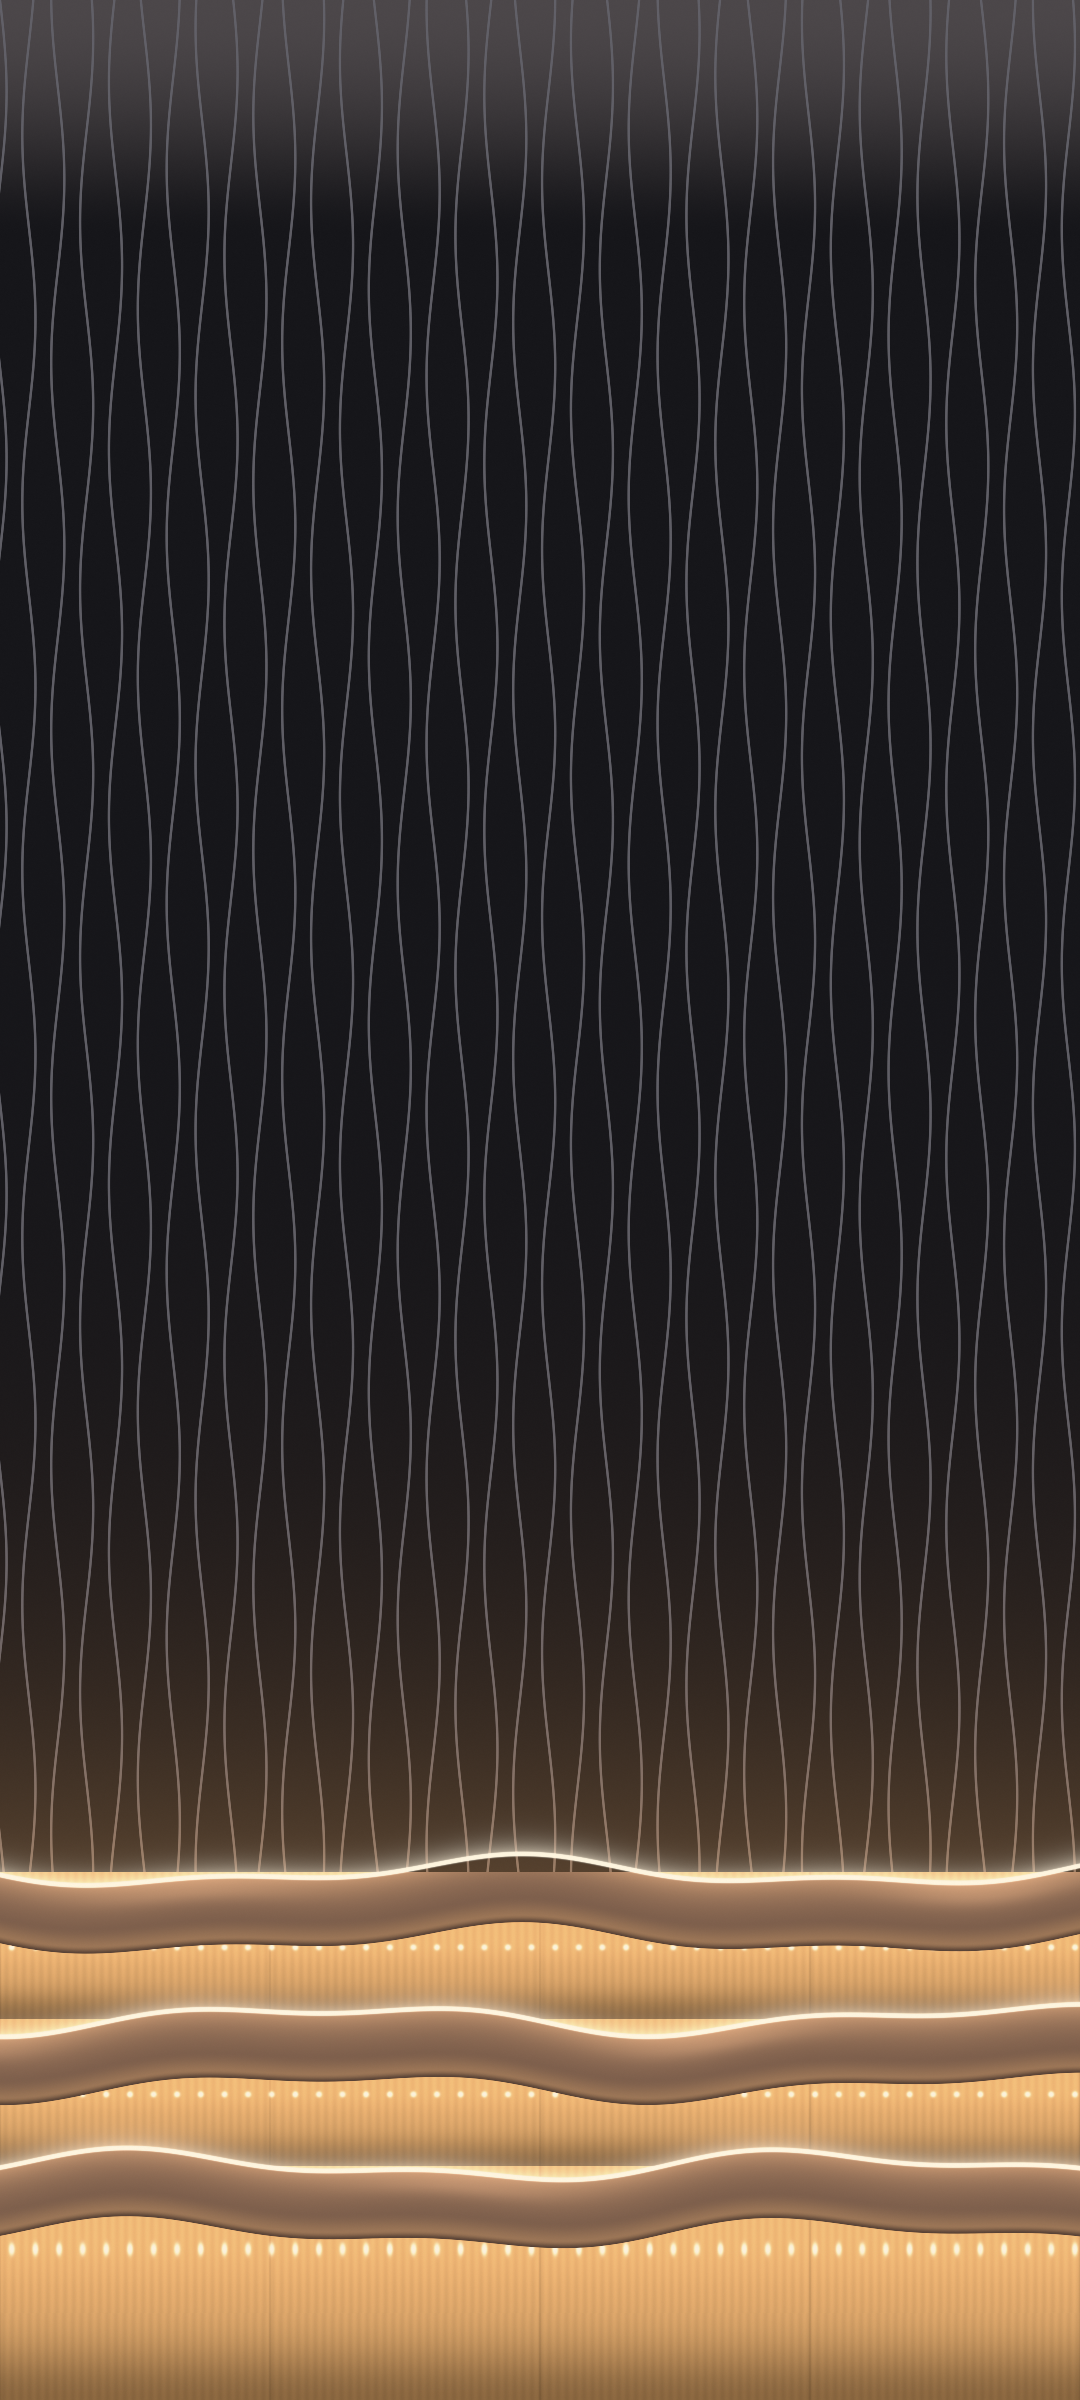
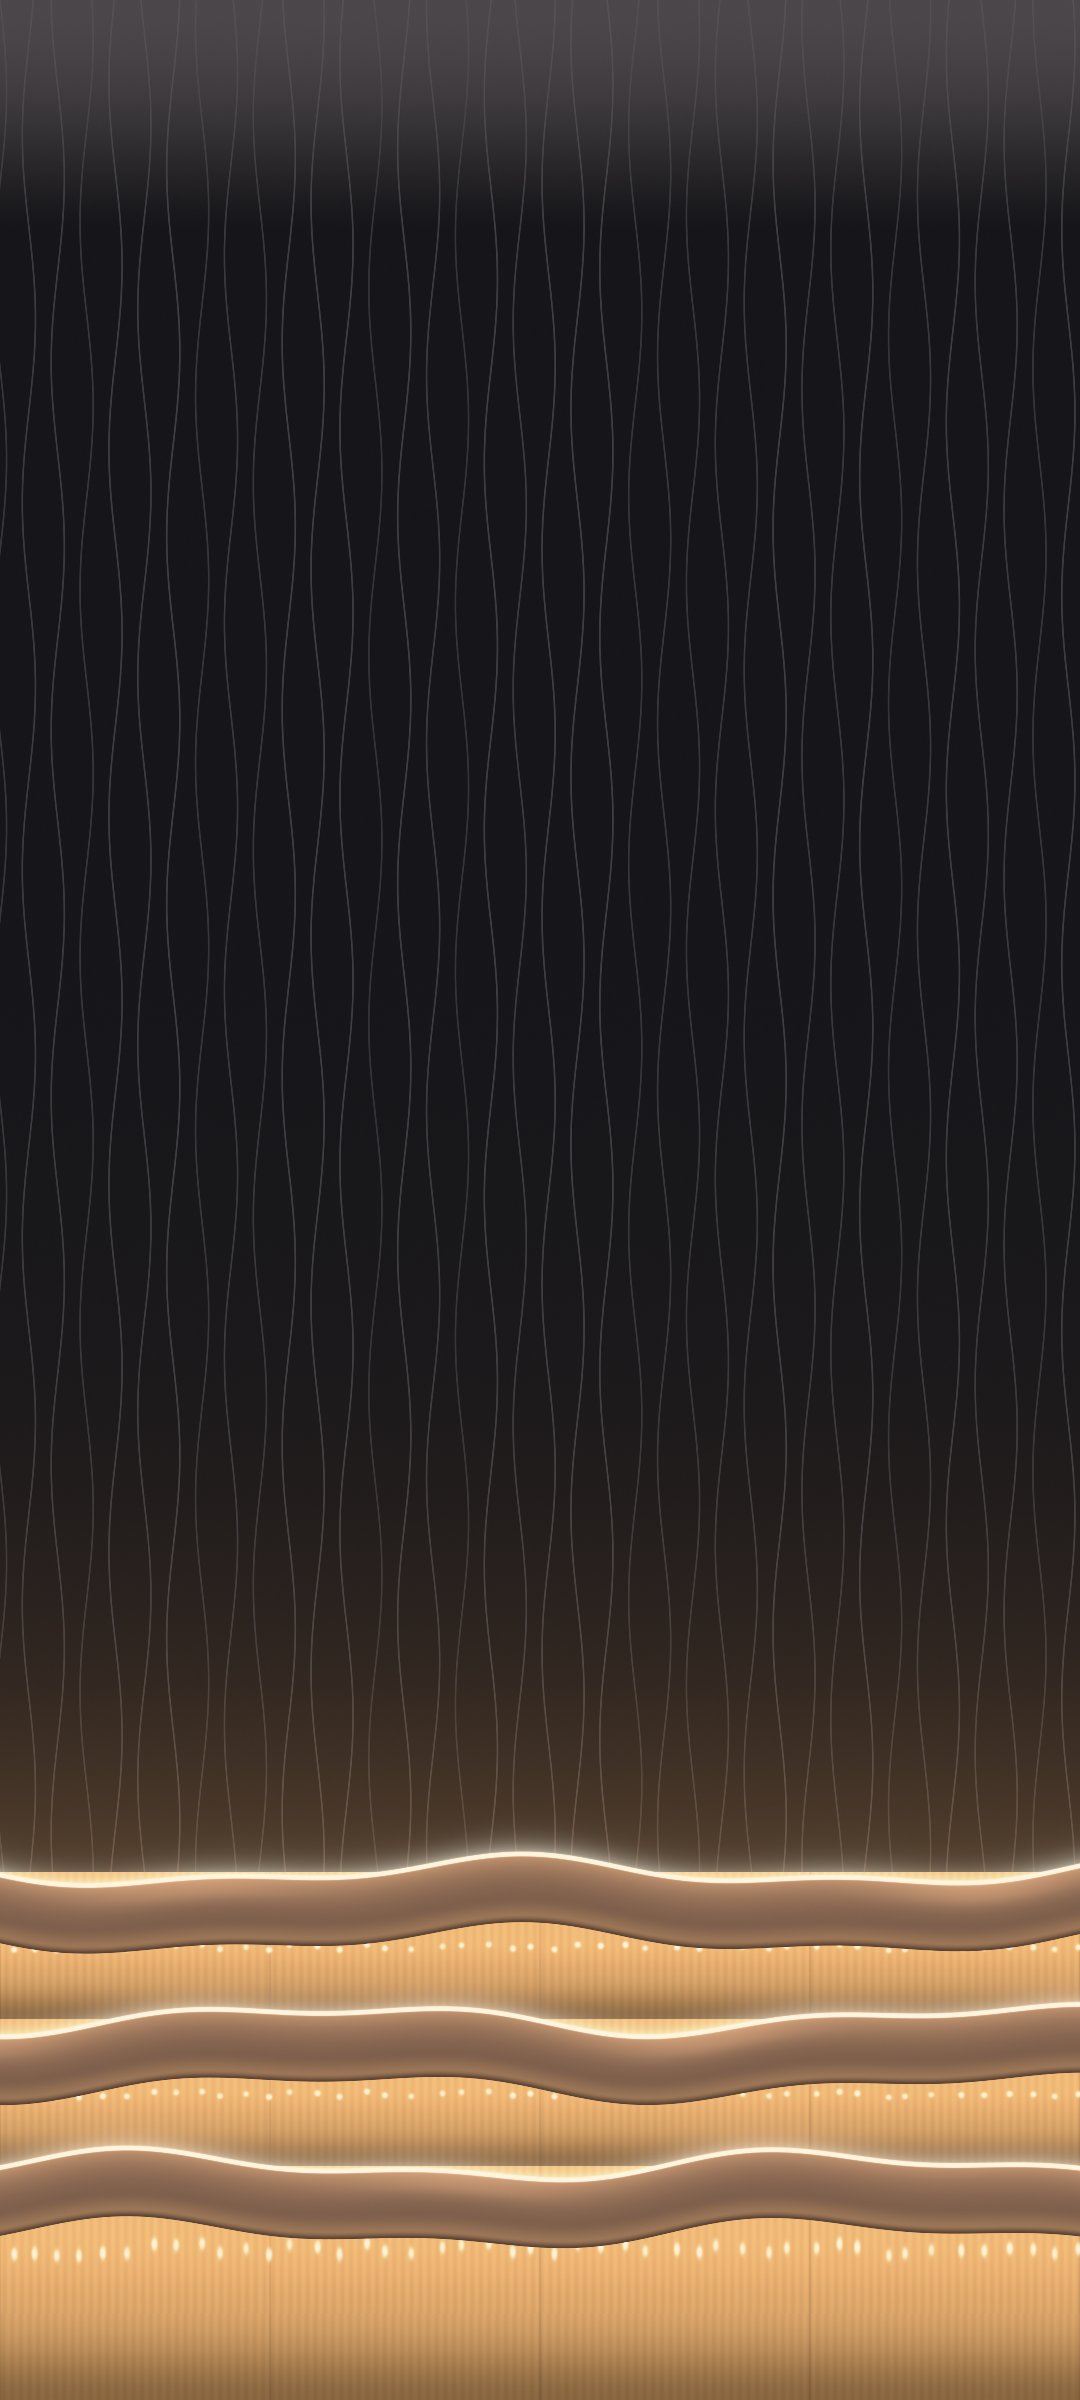
WIP Kinu: 金の帯の光のにじみ・溝の色・カーテンのひだを見本に寄せる
Claude-Session: https://claude.ai/code/session_01EQFTQg9fP95wRPnruyYC8J

diff --git a/app/src/main/java/com/example/businesscard/ui/kinu/KinuBusinessCard.kt b/app/src/main/java/com/example/businesscard/ui/kinu/KinuBusinessCard.kt
@@ -1,0 +1,189 @@
+package com.example.businesscard.ui.kinu
+
+import androidx.compose.foundation.clickable
+import androidx.compose.foundation.interaction.MutableInteractionSource
+import androidx.compose.foundation.layout.Arrangement
+import androidx.compose.foundation.layout.Box
+import androidx.compose.foundation.layout.Column
+import androidx.compose.foundation.layout.aspectRatio
+import androidx.compose.foundation.layout.fillMaxSize
+import androidx.compose.foundation.layout.fillMaxWidth
+import androidx.compose.foundation.layout.height
+import androidx.compose.foundation.layout.padding
+import androidx.compose.foundation.shape.RectangleShape
+import androidx.compose.material3.Text
+import androidx.compose.runtime.Composable
+import androidx.compose.runtime.getValue
+import androidx.compose.runtime.mutableStateOf
+import androidx.compose.runtime.remember
+import androidx.compose.runtime.setValue
+import androidx.compose.ui.Alignment
+import androidx.compose.ui.Modifier
+import androidx.compose.ui.geometry.Offset
+import androidx.compose.ui.geometry.Rect
+import androidx.compose.ui.geometry.Size
+import androidx.compose.ui.graphics.Outline
+import androidx.compose.ui.graphics.Path
+import androidx.compose.ui.graphics.Shape
+import androidx.compose.ui.layout.onSizeChanged
+import androidx.compose.ui.platform.LocalDensity
+import androidx.compose.ui.semantics.Role
+import androidx.compose.ui.text.style.TextOverflow
+import androidx.compose.ui.unit.Density
+import androidx.compose.ui.unit.Dp
+import androidx.compose.ui.unit.IntSize
+import androidx.compose.ui.unit.LayoutDirection
+import androidx.compose.ui.unit.dp
+import com.example.businesscard.domain.model.BusinessCard
+import com.example.businesscard.ui.glass.rememberGlassFeedback
+import kotlin.math.cos
+import kotlin.math.min
+import kotlin.math.sqrt
+
+/**
+ * 名刺の外形。上の角は丸く、下の縁は 1 周期ゆるく波打つ(振幅 [KinuDimens.lipWave])。
+ * 下の角は波の縁から続けて丸める。
+ */
+private class KinuCardShape(private val corner: Dp) : Shape {
+    override fun createOutline(size: Size, layoutDirection: LayoutDirection, density: Density): Outline {
+        val r = with(density) { corner.toPx() }
+        val amp = with(density) { KinuDimens.lipWave.toPx() }
+        val w = size.width
+        val h = size.height
+        val path = Path().apply {
+            moveTo(0f, r)
+            arcTo(Rect(0f, 0f, 2 * r, 2 * r), 180f, 90f, false)
+            lineTo(w - r, 0f)
+            arcTo(Rect(w - 2 * r, 0f, w, 2 * r), 270f, 90f, false)
+            // 右の縁を下り、下の縁を右から左へ戻る(波と下の角)
+            val steps = 64
+            for (i in 0..steps) {
+                val x = w * (1f - i.toFloat() / steps)
+                val wave = h - amp * (0.5f - 0.5f * cos(2f * Math.PI.toFloat() * x / w))
+                val d = min(x, w - x)
+                val y = if (d < r) {
+                    val k = r - d
+                    min(wave, h - r + sqrt((r * r - k * k).coerceAtLeast(0f)))
+                } else {
+                    wave
+                }
+                lineTo(x, y)
+            }
+            close()
+        }
+        return Outline.Generic(path)
+    }
+}
+
+/**
+ * 名刺。琥珀に灯る窓の面に、上下の金の縁(リップ)。下の縁は波打つ。
+ * 押すと縁の光の線が強まる(大きさは変えない)。
+ *
+ * @param onClick 指定すると面全体がボタンになる
+ */
+@Composable
+fun KinuBusinessCard(
+    card: BusinessCard,
+    modifier: Modifier = Modifier,
+    onClick: (() -> Unit)? = null,
+) {
+    val c = KinuTheme.colors
+    val shape = remember { KinuCardShape(CARD_CORNER) }
+    val ignite = LocalKinuIgnite.current
+    val density = LocalDensity.current
+    val interaction = remember { MutableInteractionSource() }
+    val feedback = rememberGlassFeedback()
+    val press = rememberKinuPress(interaction, feedback)
+    var cardSize by remember { mutableStateOf(IntSize.Zero) }
+    val bottomLipPx = with(density) { (KinuDimens.lipHeight + KinuDimens.lipWave).toPx() }
+
+    // 下の縁は card の下端から測るので、指の y を縁の中の位置へ直す
+    val bottomTouch: () -> Offset = {
+        val t = press.touch
+        if (t.x < 0f) t else Offset(t.x, t.y - (cardSize.height - bottomLipPx))
+    }
+
+    Box(
+        modifier = modifier
+            .aspectRatio(CARD_ASPECT_RATIO)
+            .onSizeChanged { cardSize = it }
+            .kinuWindow(shape, glow = { ignite.value }, seed = 0.4f)
+            .then(
+                if (onClick != null) {
+                    Modifier
+                        .kinuTouch(press)
+                        .clickable(
+                            interactionSource = interaction,
+                            indication = null,
+                            role = Role.Button,
+                            onClick = {
+                                feedback.click()
+                                onClick()
+                            },
+                        )
+                } else {
+                    Modifier
+                },
+            ),
+    ) {
+        Box(
+            modifier = Modifier
+                .align(Alignment.TopCenter)
+                .fillMaxWidth()
+                .height(KinuDimens.lipHeight)
+                .kinuRibbon(
+                    RectangleShape,
+                    line = { KinuLight.LINE_GOLD + KinuLight.LINE_PRESS_BOOST * press.value },
+                    touch = { press.touch },
+                    seed = 0.2f,
+                ),
+        )
+        Box(
+            modifier = Modifier
+                .align(Alignment.BottomCenter)
+                .fillMaxWidth()
+                .height(KinuDimens.lipHeight + KinuDimens.lipWave)
+                .kinuRibbon(
+                    RectangleShape,
+                    line = { KinuLight.LINE_GOLD + KinuLight.LINE_PRESS_BOOST * press.value },
+                    touch = bottomTouch,
+                    seed = 0.7f,
+                ),
+        )
+        Column(
+            modifier = Modifier
+                .fillMaxSize()
+                .padding(
+                    start = 24.dp,
+                    top = KinuDimens.lipHeight + 16.dp,
+                    end = 24.dp,
+                    bottom = KinuDimens.lipHeight + KinuDimens.lipWave + 16.dp,
+                ),
+            verticalArrangement = Arrangement.SpaceBetween,
+        ) {
+            Column {
+                if (card.company.isNotEmpty()) {
+                    Text(text = card.company, style = KinuType.cardCompany, color = c.inkMuted, maxLines = 1, overflow = TextOverflow.Ellipsis)
+                }
+                if (card.title.isNotEmpty()) {
+                    Text(text = card.title, style = KinuType.cardDetail, color = c.inkMuted, maxLines = 1, overflow = TextOverflow.Ellipsis)
+                }
+            }
+            Text(text = card.name, style = KinuType.cardName, color = c.ink, maxLines = 1, overflow = TextOverflow.Ellipsis)
+            Column {
+                if (card.phone.isNotEmpty()) {
+                    Text(text = card.phone, style = KinuType.cardDetail, color = c.inkMuted, maxLines = 1)
+                }
+                if (card.email.isNotEmpty()) {
+                    Text(text = card.email, style = KinuType.cardDetail, color = c.inkMuted, maxLines = 1, overflow = TextOverflow.Ellipsis)
+                }
+            }
+        }
+    }
+}
+
+/** 名刺の角の丸み */
+private val CARD_CORNER = 22.dp
+
+/** 日本の名刺の標準サイズ 91mm x 55mm */
+private const val CARD_ASPECT_RATIO = 91f / 55f

diff --git a/app/src/main/java/com/example/businesscard/ui/kinu/KinuCatalog.kt b/app/src/main/java/com/example/businesscard/ui/kinu/KinuCatalog.kt
@@ -1,0 +1,129 @@
+package com.example.businesscard.ui.kinu
+
+import androidx.compose.foundation.layout.Arrangement
+import androidx.compose.foundation.layout.Column
+import androidx.compose.foundation.layout.Row
+import androidx.compose.foundation.layout.fillMaxSize
+import androidx.compose.foundation.layout.fillMaxWidth
+import androidx.compose.foundation.layout.padding
+import androidx.compose.foundation.layout.safeDrawing
+import androidx.compose.foundation.layout.windowInsetsPadding
+import androidx.compose.foundation.layout.WindowInsets
+import androidx.compose.foundation.rememberScrollState
+import androidx.compose.foundation.verticalScroll
+import androidx.compose.material.icons.Icons
+import androidx.compose.material.icons.automirrored.outlined.ArrowBack
+import androidx.compose.material.icons.filled.Check
+import androidx.compose.material.icons.outlined.Edit
+import androidx.compose.material.icons.outlined.Person
+import androidx.compose.runtime.Composable
+import androidx.compose.runtime.getValue
+import androidx.compose.runtime.mutableStateOf
+import androidx.compose.runtime.remember
+import androidx.compose.runtime.setValue
+import androidx.compose.ui.Modifier
+import androidx.compose.ui.tooling.preview.Preview
+import androidx.compose.ui.unit.dp
+import com.example.businesscard.domain.model.BusinessCard
+
+/**
+ * Kinu の全部品を並べた確認用画面。Android Studio のプレビューと、スクリーンショットテストの両方で使う。
+ */
+@Composable
+fun KinuCatalog(modifier: Modifier = Modifier) {
+    val c = KinuTheme.colors
+    var text by remember { mutableStateOf("") }
+    var choice by remember { mutableStateOf(0) }
+    var showDialog by remember { mutableStateOf(false) }
+    var showConfirm by remember { mutableStateOf(false) }
+    val sample = BusinessCard(
+        id = 1L,
+        name = "Sample Name",
+        company = "Sample Co., Ltd.",
+        title = "Position",
+        phone = "03-0000-0000",
+        email = "sample@example.com",
+    )
+
+    KinuBackground(modifier) {
+        Column(
+            modifier = Modifier
+                .fillMaxSize()
+                .windowInsetsPadding(WindowInsets.safeDrawing)
+                .verticalScroll(rememberScrollState())
+                .padding(16.dp),
+            verticalArrangement = Arrangement.spacedBy(18.dp),
+        ) {
+            KinuTopBar(title = "Catalog", onBack = {})
+
+            Row(
+                modifier = Modifier.fillMaxWidth(),
+                horizontalArrangement = Arrangement.spacedBy(12.dp),
+            ) {
+                KinuButton(text = "Gold", onClick = {}, modifier = Modifier.weight(1f))
+                KinuButton(text = "Night", onClick = {}, tone = KinuTone.Night, modifier = Modifier.weight(1f))
+            }
+            KinuButton(text = "Loading", onClick = {})
+            KinuButton(text = "Leading icon", onClick = {}, leadingIcon = Icons.Filled.Check)
+            KinuButton(text = "Disabled", onClick = {}, enabled = false)
+            KinuButton(text = "Danger", onClick = {}, tone = KinuTone.Night, contentColor = c.danger)
+
+            Row(horizontalArrangement = Arrangement.spacedBy(12.dp)) {
+                KinuIconButton(onClick = {}, icon = Icons.AutoMirrored.Outlined.ArrowBack, contentDescription = "Back")
+                KinuIconButton(
+                    onClick = {},
+                    icon = Icons.Outlined.Edit,
+                    contentDescription = "Edit",
+                    tone = KinuTone.Gold,
+                )
+            }
+
+            KinuTextField(
+                value = text,
+                onValueChange = { text = it },
+                label = "Text field",
+                placeholder = "Name",
+                leadingIcon = Icons.Outlined.Person,
+            )
+            KinuTextField(
+                value = "",
+                onValueChange = {},
+                label = "Error",
+                isError = true,
+                errorText = "Required",
+            )
+
+            KinuChoice(text = "Choice A", selected = choice == 0, onClick = { choice = 0 })
+            KinuChoice(text = "Choice B", selected = choice == 1, onClick = { choice = 1 })
+
+            KinuMessage(text = "Message")
+
+            KinuBusinessCard(card = sample, onClick = {})
+
+            KinuButton(text = "Dialog", onClick = { showDialog = true }, tone = KinuTone.Night)
+            KinuButton(text = "Confirm", onClick = { showConfirm = true }, tone = KinuTone.Night)
+        }
+    }
+
+    if (showDialog) {
+        KinuDialog(title = "Dialog", message = "Message", onDismiss = { showDialog = false }) {
+            KinuButton(text = "Close", onClick = { showDialog = false }, tone = KinuTone.Night)
+        }
+    }
+    if (showConfirm) {
+        KinuConfirmDialog(
+            title = "Confirm",
+            message = "Message",
+            confirmLabel = "OK",
+            dismissLabel = "Cancel",
+            onConfirm = { showConfirm = false },
+            onDismiss = { showConfirm = false },
+        )
+    }
+}
+
+@Preview(name = "Kinu catalog", widthDp = 412, heightDp = 892)
+@Composable
+private fun KinuCatalogPreview() {
+    KinuCatalog()
+}

diff --git a/app/src/main/java/com/example/businesscard/ui/kinu/KinuControls.kt b/app/src/main/java/com/example/businesscard/ui/kinu/KinuControls.kt
@@ -48,7 +48,6 @@ import androidx.compose.ui.text.style.TextOverflow
 import androidx.compose.ui.unit.dp
 import androidx.compose.ui.window.Dialog
 import androidx.compose.ui.window.DialogProperties
-import androidx.compose.foundation.clickable as clickableNoIndication
 import com.example.businesscard.R
 import com.example.businesscard.ui.glass.rememberGlassFeedback
 
@@ -374,7 +373,7 @@ fun KinuDialog(
             modifier = Modifier
                 .fillMaxSize()
                 .background(c.scrim)
-                .clickableNoIndication(
+                .clickable(
                     interactionSource = remember { MutableInteractionSource() },
                     indication = null,
                     onClick = onDismiss,
@@ -388,7 +387,7 @@ fun KinuDialog(
                     .widthIn(max = 420.dp)
                     .kinuNightGlass(KinuShapes.dialog, line = { KinuLight.LINE_NIGHT })
                     // 面の中をタップしても閉じないよう、タップを受け取って消費する
-                    .clickableNoIndication(
+                    .clickable(
                         interactionSource = remember { MutableInteractionSource() },
                         indication = null,
                         onClick = {},
